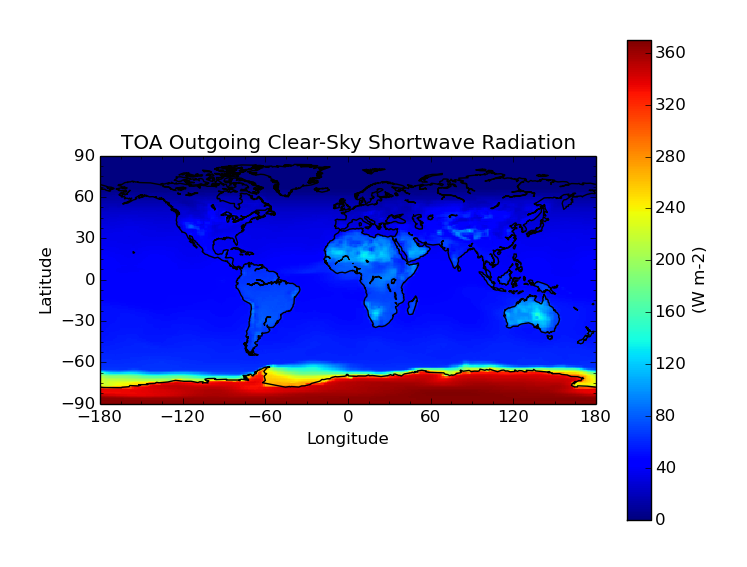
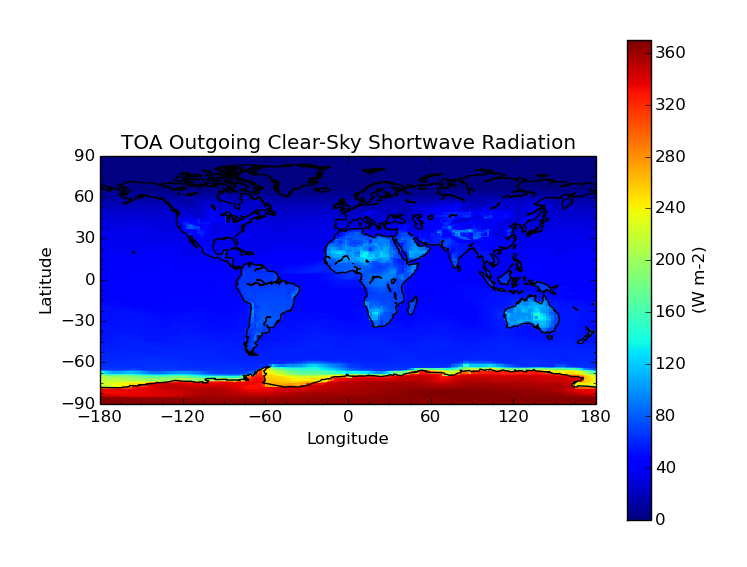
Fix to prevent gridded-gridded colocation trying to colocate with anything other than dim coords.
Also fixed gridded colocation example images which were back to front for nn and li.

diff --git a/jasmin_cis/col_implementations.py b/jasmin_cis/col_implementations.py
@@ -686,7 +686,7 @@ class GriddedColocator(GriddedColocatorUsingIrisRegrid):
         # sample grid.
         coord_names_and_sizes_for_sample_grid = []
         coord_names_and_sizes_for_output_grid = []
-        for coord in data.coords():
+        for coord in data.coords(dim_coords=True):
             # First try and find the coordinate in points, the sample grid. If an exception is thrown, it means that
             # name does not appear in the sample grid, and instead take the coordinate name and length from the original
             # data, as this is what we will be keeping.
